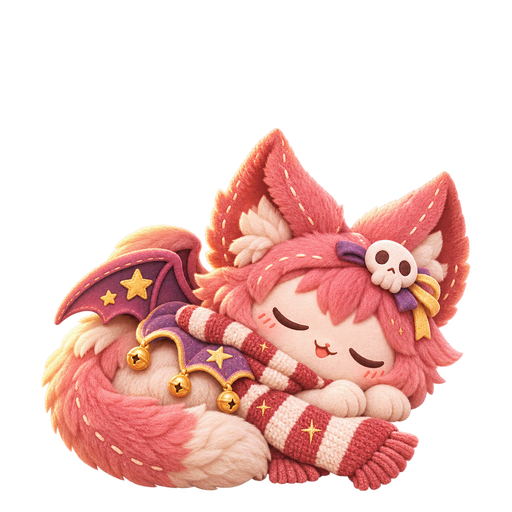
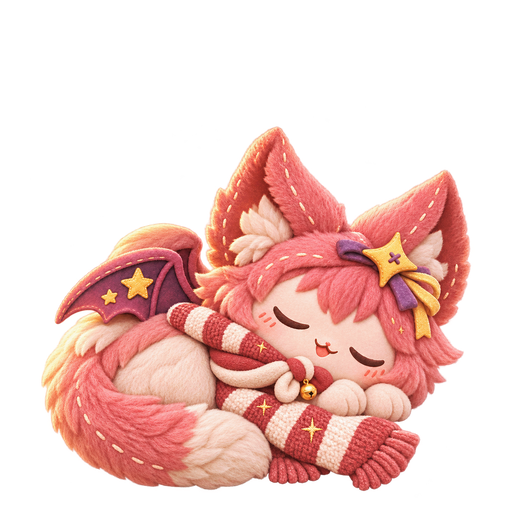
Switch Mischi to the four-point Mischief Star design (all 11 assets reviewed)
Claude-Session: https://claude.ai/code/session_01HwhHRDHqzqHy6F6HQDi5zN

diff --git a/docs/art-review-milestone-b.md b/docs/art-review-milestone-b.md
@@ -62,3 +62,19 @@ Code: Decorated residents now use Decorated art for idle, walk, sit and sleep (h
 Remaining minor notes (no action needed for acceptance):
 - Mischi Decorated sit reads slightly larger than her original sit (bigger scarf and collar); within tolerance.
 - Tinker and Mischi still switch from a side view (walk) to a front view (idle) when they stop. Optional future fix: a three-quarter idle that keeps the approved design.
+
+## Mischi redesign (four-point Mischief Star), 15 Nov 2026
+
+All 11 replacement files reviewed against brief 06 (approved 15 Nov). Mischi now uses the new design everywhere; the old skull-charm files are superseded and no longer in the game. No other character changed.
+
+| Asset | File used | Result |
+|---|---|---|
+| Master turnaround | `char_mischi_master_v3.png` | Pass. Four-point star with purple cross stitch on the front and side views; back view shows the bow only. Normalized to 2048×1024 (reference only). |
+| Portrait | `char_mischi_portrait_v3.png` | Pass. Star and stitch clear at portrait size. |
+| Idle | `char_mischi_idle_v3.png` | Pass. Same framing and three-quarter facing as the previous idle. |
+| Walk, sit, sleep, happy | `_v2` of each | Pass. Pose and facing match the previous set, so movement and flipping need no code change. |
+| Decorated idle, walk, sit, sleep | `_v2` of each | Pass. Asymmetrical scarf knot with a single gold bell; wing stars kept from the approved Decorated look. |
+
+Rejected: `char_mischi_master_v2.png` (five-point star, white patch, pink smudge) and `char_mischi_portrait_v2.png` (five-point star). `char_mischi_idle_v2.png` stays rejected.
+
+Checks: all poses 1024×1024 with transparency, feet on the shared line at 96%, one scale for the character. Minor note, not blocking: in Decorated walk the bow under the star is drawn as a flatter stitched band; it is barely visible at in-game size.

diff --git a/CHANGELOG.md b/CHANGELOG.md
@@ -2,6 +2,12 @@
 
 Labels: **Implemented** (in the code and tested) · **Placeholder** (works, but stands in for final content) · **Planned** (not built).
 
+## 0.3.1 — Mischi redesign (15 Nov 2026), local commit only, not pushed or deployed
+
+### Implemented
+- Mischi switched to the approved four-point Mischief Star design: all 11 files (master v3, portrait v3, idle v3, and v2 of walk, sit, sleep, happy and the four Decorated poses). Decorated Mischi wears the asymmetrical scarf knot with one bell.
+- master_v2 and portrait_v2 rejected on review (five-point star). No other character changed.
+
 ## 0.3.0 — Milestone C: the whole First Residents series (15 Nov 2026), local commits only, not pushed or deployed
 
 ### Implemented

diff --git a/docs/character-guidelines.md b/docs/character-guidelines.md
@@ -52,3 +52,7 @@ Also affected, outside the asset folder:
 5. `char_mischi_decorated_walk_v2`, `_decorated_sit_v2`, `_decorated_sleep_v2` — star and collar, copying from 1 and 3.
 
 The game switches to the new Mischi only when the whole set of 11 is approved, so she never shows a skull in one pose and a star in another.
+
+## Status (15 Nov 2026)
+
+The four-point Mischief Star design is now live in the game build (local commit). All 11 assets passed review; see `docs/art-review-milestone-b.md`. The old skull-charm art is no longer used.
